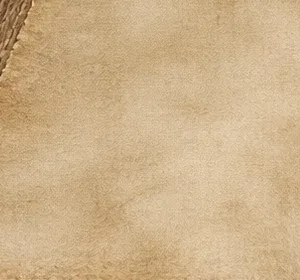
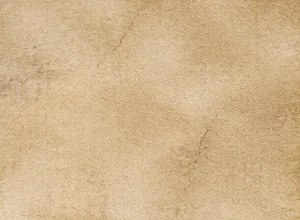
机 v1.2.0／見本 v1.4.0：題を英語＋「ルート分岐表」に、破れの重複を解消、見本の書き込み
Claude-Session: https://claude.ai/code/session_01V6rLNkZVMeFGwMy4Z8QBFt

diff --git a/assets/nakoto/nakoto-desk.js b/assets/nakoto/nakoto-desk.js
@@ -1,5 +1,5 @@
 /* ============================================================================
-   机メニュー＋ナコト写本 部品（NakotoDesk） v1.1.0
+   机メニュー＋ナコト写本 部品（NakotoDesk） v1.2.0
    ----------------------------------------------------------------------------
    机そのものがメニュー。写本＝ルート分岐表、羽ペン＝セーブ、探索者シート＝シート表示。
    本体は呼ぶだけ。見た目を作り直すときは、このファイルと assets/nakoto/ の絵だけを差しかえる。
@@ -36,7 +36,7 @@
    ============================================================================ */
 (function(){
   'use strict';
-  var VERSION='1.1.0';
+  var VERSION='1.2.0';
   // 効果音（assets からの場所）。空なら鳴らさない。見本の「調整」で差しかえられる
   var SOUNDS={glow:'',sheet:'sfx/紙を広げる1.mp3',openWet:'sfx/うごめく触手.mp3',strap:'sfx/ベルトを付ける.mp3',cover:'sfx/ページをめくる1.mp3',coverWet:'sfx/ねんえきネバネバ.mp3',
     peek:'sfx/ページをめくる2.mp3',grow:'sfx/うごめく触手.mp3',grow2:'sfx/暗黒魔法.mp3',close:'sfx/本を閉じる1.mp3',saveOpen:'sfx/紙を広げる2.mp3',write:'sfx/シャーペンで字を書く.mp3',
@@ -110,15 +110,16 @@
 '.nd-page.l::after,.nd-page.r::after{content:"";position:absolute;top:0;bottom:0;width:14%;pointer-events:none}',
 '.nd-page.l::after{right:0;background:linear-gradient(90deg,rgba(0,0,0,0),rgba(40,20,5,.45))}',
 '.nd-page.r::after{left:0;background:linear-gradient(270deg,rgba(0,0,0,0),rgba(40,20,5,.45))}',
-'.nd-ptitle{text-align:center;font-size:clamp(15px,3.6dvh,26px);font-weight:700;letter-spacing:.4em;padding:6% 0 1%;color:#4a1c0c}',
-'.nd-psub{text-align:center;font-size:clamp(9px,1.8dvh,13px);letter-spacing:.3em;color:#7a5634;margin-bottom:4%}',
+'.nd-ptitle{text-align:center;font-family:"Cinzel","Times New Roman",serif;font-size:clamp(14px,3.4dvh,25px);font-weight:700;letter-spacing:.14em;padding:7% 0 1%;color:#4a1c0c}',
+'.nd-psub{text-align:center;font-size:clamp(11px,2.3dvh,16px);letter-spacing:.5em;color:#6a3a1c;margin-bottom:4%}',
+'.nd-page.r::before{content:"";position:absolute;inset:0;background:var(--tex) center/cover;transform:scale(-1,-1);pointer-events:none}',
 '.nd-chs{display:flex;flex-direction:column;gap:2.4dvh;padding:0 12%}',
 '.nd-ch{min-height:40px;padding:1.2dvh 2%;border-bottom:1px solid rgba(90,50,20,.35);font-size:clamp(12px,2.7dvh,19px);letter-spacing:.15em;cursor:pointer;display:flex;align-items:center;gap:10px}',
 '.nd-ch.sel{color:#8a1a10;font-weight:700}',
 '.nd-ch .mk{font-size:.8em;color:#9a2a18}',
 '.nd-ch.lock{cursor:default;color:transparent;position:relative}',
 '.nd-ch.lock::before{content:"";position:absolute;left:2%;right:30%;top:30%;bottom:30%;background:var(--noise);background-size:120px;opacity:.55;filter:blur(.6px);animation:nd-noise .25s steps(2) infinite}',
-'.nd-tree{position:absolute;inset:4% 3% 4% 9%;overflow-y:auto;overflow-x:hidden;touch-action:pan-y;-webkit-overflow-scrolling:touch;scrollbar-width:none}',
+'.nd-tree{position:absolute;z-index:1;inset:4% 3% 4% 9%;overflow-y:auto;overflow-x:hidden;touch-action:pan-y;-webkit-overflow-scrolling:touch;scrollbar-width:none}',
 '.nd-tree::-webkit-scrollbar{display:none}',
 '.nd-tin{position:relative;padding:4% 2% 18%}',
 '.nd-tin svg.ln{position:absolute;left:0;top:0;overflow:visible;pointer-events:none}',
@@ -134,7 +135,7 @@
 '.nd-bx.end{background:#9a1010;color:#fff;border-color:#4a0606}',
 '.nd-bx.nz{border:1px dashed rgba(90,60,40,.6);background:var(--noise);background-size:90px;color:transparent;opacity:.7;animation:nd-noise .22s steps(2) infinite}',
 '@keyframes nd-noise{0%{background-position:0 0}50%{background-position:-37px 21px}100%{background-position:13px -29px}}',
-'.nd-tx{flex:1 1 auto;min-width:4em;font-size:clamp(12px,2.6dvh,18px);letter-spacing:.12em;line-height:1.3}',
+'.nd-tx{flex:1 1 auto;min-width:7em;font-size:clamp(12px,2.6dvh,18px);letter-spacing:.12em;line-height:1.3}',
 '.nd-row.endrow .nd-tx{color:#8a1010}',
 '.nd-grow{animation:nd-grow .9s cubic-bezier(.3,1.6,.5,1) both}',
 '@keyframes nd-grow{0%{transform:scale(.2,.05);opacity:0;filter:blur(4px)}60%{opacity:1}100%{transform:none;opacity:1;filter:none}}',
@@ -215,11 +216,11 @@
 
     /* 写本 */
     var codex=el('div','nd-codex');
-    codex.innerHTML='<div class="nd-spread"><div class="nd-page l"><div class="nd-ptitle">ナコト写本</div><div class="nd-psub">PNAKOTIC MANUSCRIPTS</div><div class="nd-chs"></div></div>'+
+    codex.innerHTML='<div class="nd-spread"><div class="nd-page l"><div class="nd-ptitle">Pnakotic Manuscripts</div><div class="nd-psub">ルート分岐表</div><div class="nd-chs"></div></div>'+
       '<div class="nd-page r"><div class="nd-tree"><div class="nd-tin"></div></div></div></div><div class="nd-cmsg">「保存」の印を押すと、その時へ戻れる</div>';
     var cback=el('button','nd-back','閉じる'); cback.type='button'; codex.appendChild(cback);
     host.appendChild(codex);
-    codex.querySelectorAll('.nd-page').forEach(function(p){ p.style.backgroundImage='url('+B+'page-tex.webp)'; });
+    codex.querySelector('.nd-page.l').style.backgroundImage='url('+B+'page-tex.webp)'; host.style.setProperty('--tex','url('+B+'page-tex.webp)');
     var chsEl=codex.querySelector('.nd-chs'), tree=codex.querySelector('.nd-tree'), tin=codex.querySelector('.nd-tin');
     (o.root||document.body).appendChild(host);
 

diff --git a/tools/nakoto-sample.html b/tools/nakoto-sample.html
@@ -5,8 +5,8 @@
 <meta name="viewport" content="width=device-width, initial-scale=1.0, maximum-scale=1.0, user-scalable=no, viewport-fit=cover">
 <meta name="mobile-web-app-capable" content="yes">
 <meta name="apple-mobile-web-app-capable" content="yes">
-<title>ナコト写本 見本 v1.3.0</title>
-<link rel="stylesheet" href="https://fonts.googleapis.com/css2?family=Shippori+Mincho:wght@400;600;700&display=swap">
+<title>ナコト写本 見本 v1.4.0</title>
+<link rel="stylesheet" href="https://fonts.googleapis.com/css2?family=Cinzel:wght@700&family=Shippori+Mincho:wght@400;600;700&display=swap">
 <style>
   /* 机メニュー＋ナコト写本だけを試す見本。ゲーム本体には影響しない */
   *{box-sizing:border-box;margin:0;padding:0;-webkit-tap-highlight-color:transparent;user-select:none}
@@ -45,9 +45,9 @@
 </style>
 </head>
 <body>
-<div id="start"><b>タップして始める</b><span>全画面・横向きになります</span><span>ナコト写本 見本 v1.3.0</span></div>
+<div id="start"><b>タップして始める</b><span>全画面・横向きになります</span><span>ナコト写本 見本 v1.4.0</span></div>
 <div id="portrait">横向きにしてください</div>
-<div id="dbg"><button id="adv">物語を進める</button><button id="rst">最初から</button><button id="adjBtn">調整</button></div>
+<div id="dbg"><button id="adv">物語を進める</button><button id="rst">最初から</button><button id="demo">見本で埋める</button><button id="adjBtn">調整</button></div>
 <div id="adj">
   <div class="tabs"><button data-p="lay" class="on">配置</button><button data-p="snd">効果音</button><button id="adjSide">左右</button><button id="adjClose">閉じる</button></div>
   <div class="pane on" id="p-lay">
@@ -107,12 +107,18 @@
   var KEY='nakoto-sample-v1';  // 配置・効果音の調整もここに保存
   function load(){ try{ return JSON.parse(localStorage.getItem(KEY))||null; }catch(_){ return null; } }
   function save(d){ try{ localStorage.setItem(KEY,JSON.stringify(d)); }catch(_){} }
-  var data=load()||{step:0,state:null};
+  // 見本の書き込み：最初に開いたとき、途中まで進んだ状態（セーブ2つ）にしておく
+  function demo(){
+    var seen=[], shown=[];
+    path.forEach(function(p,i){ p[0].forEach(function(id){ seen.push(id); if(i<path.length-2) shown.push(id); }); }); seen.push('c1-q2:B','c1-e2','c1-q3:B','c1-e3'); shown.push('c1-q2:B','c1-e2','c1-q3:B','c1-e3');
+    return {step:path.length,state:{seen:seen,shown:shown,opened:false,hasBook:true,hinted:false,saves:[{node:'c1-q2',time:0},{node:'c2-s1',time:0},null]}};
+  }
+  var data=load()||demo();
 
   var desk=NakotoDesk.create({
     base:'../assets/nakoto/', assets:'../assets/', chart:chart, state:data.state, layout:data.layout, sounds:data.sounds,
     onLayout:function(l){ data.layout=l; save(data); },
-    onSounds:function(m){ data.sounds=m; save(data); }, version:'見本 v1.3.0',
+    onSounds:function(m){ data.sounds=m; save(data); }, version:'見本 v1.4.0',
     current: data.step>0?path[data.step-1][1]:null,
     onState:function(s){ data.state=s; save(data); },
     onLoad:function(slot,sv){ alertish('セーブ'+['壱','弐','参'][slot]+'から再開（見本なので表示だけ）'); },
@@ -127,6 +133,7 @@
     alertish('物語が進んだ（'+data.step+'/'+path.length+'）');
   }
   if(data.step===0){ advance(); }
+  document.getElementById('demo').addEventListener('click',function(){ var d=demo(); d.layout=data.layout; d.sounds=data.sounds; save(d); location.reload(); });
   document.getElementById('adv').addEventListener('click',advance);
   document.getElementById('rst').addEventListener('click',function(){ try{ var keep={step:0,state:null,layout:data.layout,sounds:data.sounds}; localStorage.setItem(KEY,JSON.stringify(keep)); }catch(_){} location.reload(); });
 
